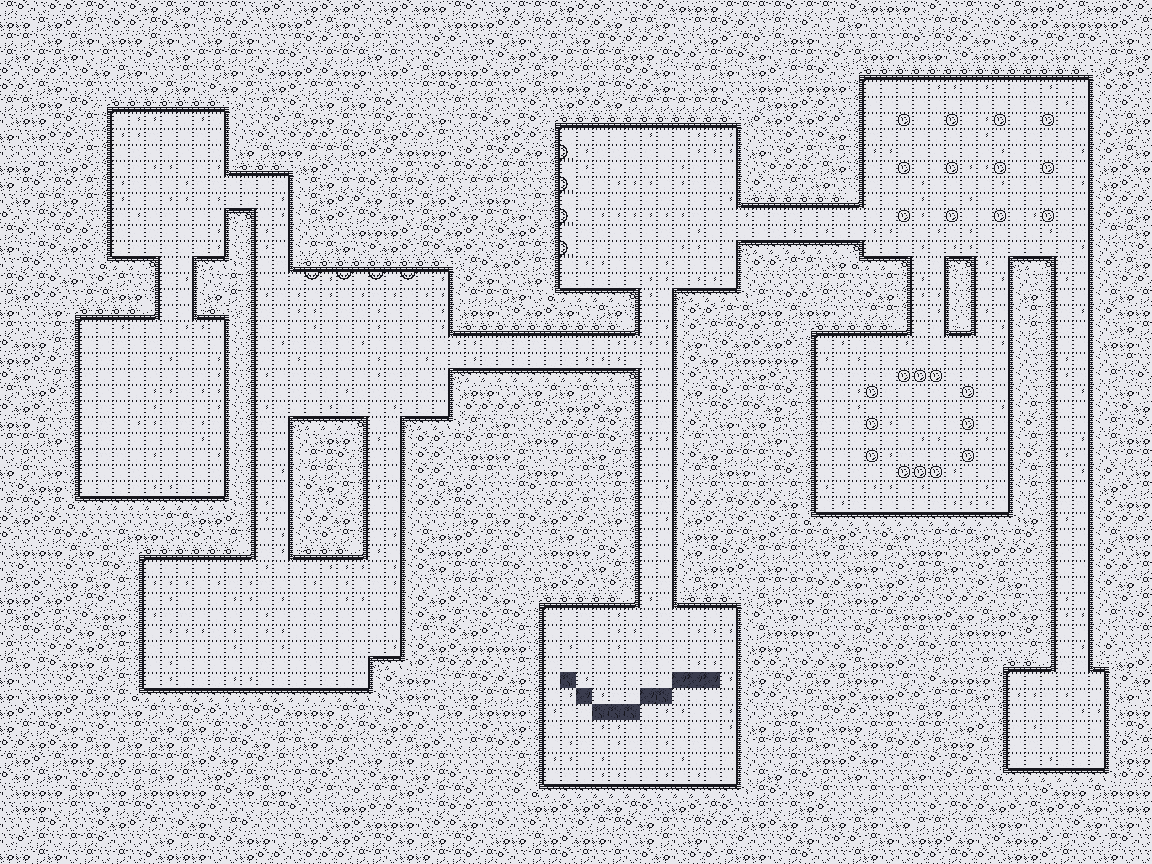
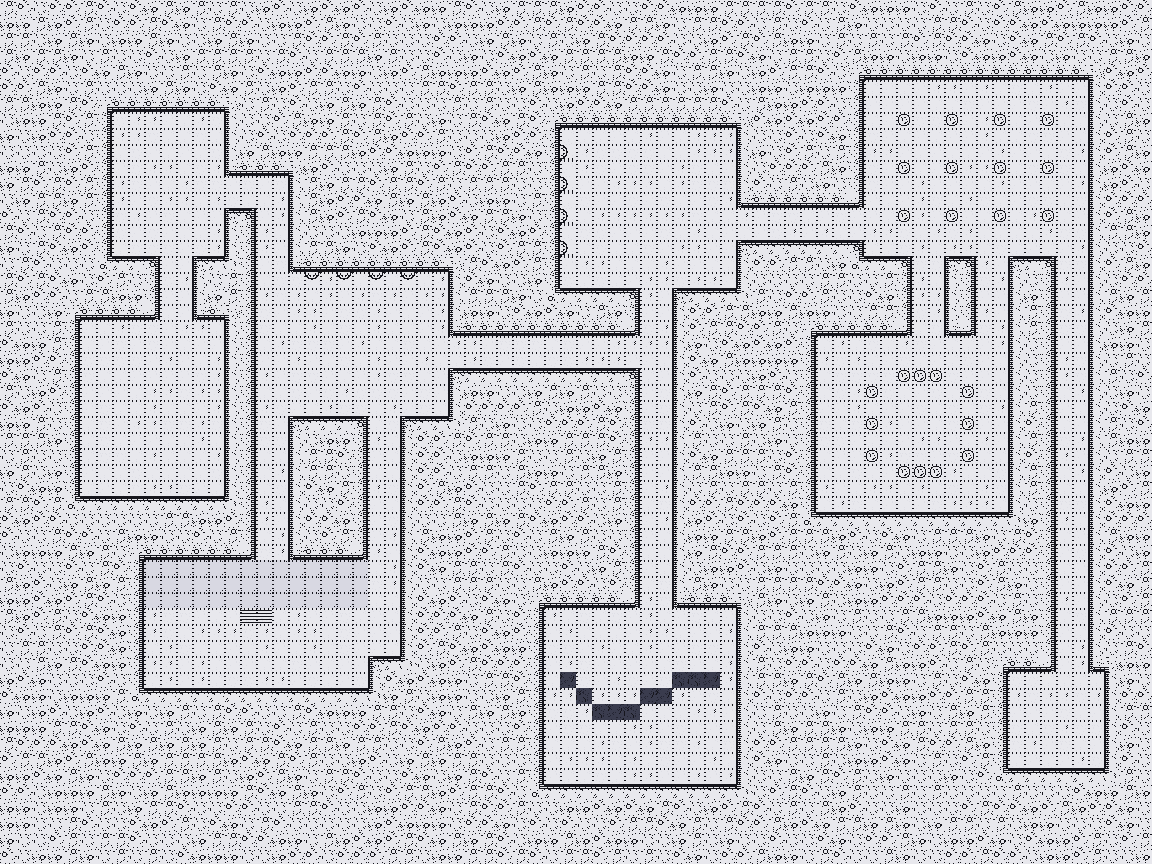
Tile map: two heights (upper platforms) and stairs, layered walk check and package floors

diff --git a/levelArchitect_v2.py b/levelArchitect_v2.py
@@ -16791,8 +16791,8 @@ def plan_from_floorplan_picture(path, plan_id="house", mpp=None, width=12.0, ext
 # the exact pixel look of the tiles. `tilemap_analyze` reads (numpy only), `_build_tilemap` builds the one mesh with walls where heights differ.
 # ==============================================================================
 PLAN_TILEMAP_DEFAULTS = dict(image=None, tile=16, tile_m=1.0, canopy=0.7, stone=3.0, water=-0.35, green=0.375, rough=22.0, roles=None, tileset=None, smooth=True,
-                             trees=True, tree_spacing=2.3, props=True, prop_height=1.7, prop_max=6)
-TILEMAP_ROLES = ("floor", "canopy", "stone", "water", "prop")
+                             trees=True, tree_spacing=2.3, props=True, prop_height=1.7, prop_max=6, upper=1.2, stair_steps=4)
+TILEMAP_ROLES = ("floor", "canopy", "stone", "water", "prop", "upper", "stairs")
 
 
 def _tilemap_tileset(spec, tile):
@@ -16858,10 +16858,11 @@ def _tilemap_side(spec, tile):
 
 
 def tilemap_analyze(rgb, tile=16, green=0.375, rough=22.0, roles=None, lut=None):
-    """Roles of the tiles of a map picture: an int array (rows top to bottom, tile columns), 0 floor, 1 canopy, 2 stone, 3 water, 4 prop (an object standing on the floor; see `_tilemap_props`).
+    """Roles of the tiles of a map picture: an int array (rows top to bottom, tile columns), 0 floor, 1 canopy, 2 stone, 3 water, 4 prop (an object standing on the floor; see `_tilemap_props`), 5 upper (a raised platform), 6 stairs (steps up
+    to the upper tile they touch).
     With a tileset (`lut`: tile pixels -> role) every tile that matches a tileset tile exactly takes that tile's role; the others (and every tile
     without a tileset) are read from colour and texture: canopy when the green share of the colour is above `green`, stone when it is not green but
-    rough (mean standard deviation of the pixels above `rough`), floor otherwise. `roles` = {"x,y": 0..4} overrides single tiles (tile column x, row y from the top)."""
+    rough (mean standard deviation of the pixels above `rough`), floor otherwise. `roles` = {"x,y": 0..6} overrides single tiles (tile column x, row y from the top)."""
     import numpy as np
     rgb = np.asarray(rgb, dtype=float)
     h, w = rgb.shape[:2]
@@ -16883,7 +16884,7 @@ def tilemap_analyze(rgb, tile=16, green=0.375, rough=22.0, roles=None, lut=None)
                     out[y, x] = code
     for key, role in (roles or {}).items():
         x, y = (int(v) for v in str(key).split(","))
-        if 0 <= x < tx and 0 <= y < ty and role in (0, 1, 2, 3, 4):
+        if 0 <= x < tx and 0 <= y < ty and role in (0, 1, 2, 3, 4, 5, 6):
             out[y, x] = role
     return out
 
@@ -16966,20 +16967,41 @@ def _tilemap_depth(roles):
 
 
 def tilemap_walk_check(roles, start=None):
-    """Proves the floor can be walked: the floor tiles (role 0; canopy, stone, water and props block) are flooded from `start` ([x, y] tile) or, without
-    one, from the biggest floor region. Returns {regions, reached (share of all floor tiles in the start region), start, pockets: sizes of the other regions}."""
+    """Proves the level can be walked: floor (0), stairs (6) and upper platforms (5) are walkable, canopy, stone, water and props block. Floor and upper tiles
+    touch without a way across (a step up), only a stairs tile joins them. The walkable tiles are flooded from `start` ([x, y] tile) or, without one, from
+    the biggest region. Returns {regions, reached (share of all walkable tiles in the start region), start (a floor tile of it), pockets: sizes of the others}."""
     import numpy as np
     roles = np.asarray(roles)
-    labels, n = _fp_label(roles == 0, diag=False)
-    if n == 0:
+    ty, tx = roles.shape
+    walk = (roles == 0) | (roles == 5) | (roles == 6)
+    label = np.zeros((ty, tx), dtype=int)
+    sizes = []
+    for y0 in range(ty):
+        for x0 in range(tx):
+            if walk[y0, x0] and not label[y0, x0]:
+                n = len(sizes) + 1
+                label[y0, x0] = n
+                stack, count = [(y0, x0)], 0
+                while stack:
+                    y, x = stack.pop()
+                    count += 1
+                    for dy, dx in ((1, 0), (-1, 0), (0, 1), (0, -1)):
+                        yy, xx = y + dy, x + dx
+                        if 0 <= yy < ty and 0 <= xx < tx and walk[yy, xx] and not label[yy, xx] and {int(roles[y, x]), int(roles[yy, xx])} != {0, 5}:
+                            label[yy, xx] = n
+                            stack.append((yy, xx))
+                sizes.append(count)
+    if not sizes:
         return {"regions": 0, "reached": 0.0, "start": None, "pockets": []}
-    sizes = np.bincount(labels.ravel())[1:]
-    if start is not None and 0 <= start[1] < roles.shape[0] and 0 <= start[0] < roles.shape[1] and labels[start[1], start[0]] > 0:
-        main = int(labels[start[1], start[0]])
+    sizes_a = np.array(sizes)
+    if start is not None and 0 <= start[1] < ty and 0 <= start[0] < tx and label[start[1], start[0]] > 0:
+        main = int(label[start[1], start[0]])
     else:
-        main = int(sizes.argmax()) + 1
-    ys, xs = np.nonzero(labels == main)
-    return {"regions": int(n), "reached": float(sizes[main - 1]) / float(sizes.sum()), "start": [int(xs[0]), int(ys[0])],
+        main = int(sizes_a.argmax()) + 1
+    ys, xs = np.nonzero((label == main) & (roles != 5))
+    if len(ys) == 0:
+        ys, xs = np.nonzero(label == main)
+    return {"regions": len(sizes), "reached": float(sizes_a[main - 1]) / float(sizes_a.sum()), "start": [int(xs[0]), int(ys[0])],
             "pockets": sorted((int(v) for i, v in enumerate(sizes, 1) if i != main), reverse=True)}
 
 
@@ -17072,7 +17094,45 @@ def _build_tilemap(p):
             uv = [(u0, v0), (u1, v0), (u1, v1), (u0, v1)]
             stone = roles[j, i] == 2
             c = (corner[j + 1, i], corner[j + 1, i + 1], corner[j, i + 1], corner[j, i])      # sw, se, ne, nw
-            quad([(x0, y0, c[0]), (x1, y0, c[1]), (x1, y1, c[2]), (x0, y1, c[3])], uv, not stone)
+            role_ij = int(roles[j, i])
+            if role_ij == 5:                                                   # an upper platform: a flat top at `upper` height with cliffs down to lower neighbours
+                H = float(p["upper"])
+                quad([(x0, y0, H), (x1, y0, H), (x1, y1, H), (x0, y1, H)], uv, False)
+                for (di, dj), edge in (((1, 0), "e"), ((-1, 0), "w"), ((0, -1), "n"), ((0, 1), "s")):
+                    ni, nj = i + di, j + dj
+                    if 0 <= ni < tx and 0 <= nj < ty and int(roles[nj, ni]) in (2, 5, 6):
+                        continue
+                    zl = float(tz[nj, ni]) if 0 <= ni < tx and 0 <= nj < ty else -0.5
+                    pts = {"e": [(x1, y0, zl), (x1, y1, zl), (x1, y1, H), (x1, y0, H)], "w": [(x0, y1, zl), (x0, y0, zl), (x0, y0, H), (x0, y1, H)],
+                           "n": [(x1, y1, zl), (x0, y1, zl), (x0, y1, H), (x1, y1, H)], "s": [(x0, y0, zl), (x1, y0, zl), (x1, y0, H), (x0, y0, H)]}[edge]
+                    quad(pts, side_uv if atlas is not None else uv, False)
+                continue
+            quad([(x0, y0, c[0]), (x1, y0, c[1]), (x1, y1, c[2]), (x0, y1, c[3])], uv, False if role_ij == 6 else not stone)
+            if role_ij == 6:                                                   # stairs: steps rising towards the neighbouring upper tile (flat floor when there is none)
+                H, n_st = float(p["upper"]), max(1, int(p["stair_steps"]))
+                up = next((d for d, (di, dj) in {"n": (0, -1), "e": (1, 0), "s": (0, 1), "w": (-1, 0)}.items()
+                           if 0 <= i + di < tx and 0 <= j + dj < ty and int(roles[j + dj, i + di]) == 5), None)
+                if up is not None:
+                    wd, dp = x1 - x0, y1 - y0
+
+                    def sp(t_, s_, z_):                                       # t_: 0 at the low edge .. 1 at the high edge, s_: across the stairs
+                        return {"n": (x0 + s_ * wd, y0 + t_ * dp, z_), "s": (x0 + s_ * wd, y1 - t_ * dp, z_),
+                                "e": (x0 + t_ * wd, y0 + s_ * dp, z_), "w": (x1 - t_ * wd, y0 + s_ * dp, z_)}[up]
+
+                    def oriented(pts, want):                                  # flips a quad whose normal points away from `want`
+                        ax_, ay_, az_ = (pts[1][k_] - pts[0][k_] for k_ in range(3))
+                        bx_, by_, bz_ = (pts[2][k_] - pts[0][k_] for k_ in range(3))
+                        nrm = (ay_ * bz_ - az_ * by_, az_ * bx_ - ax_ * bz_, ax_ * by_ - ay_ * bx_)
+                        return pts if nrm[0] * want[0] + nrm[1] * want[1] + nrm[2] * want[2] >= 0 else pts[::-1]
+                    low_dir = {"n": (0.0, -1.0, 0.0), "s": (0.0, 1.0, 0.0), "e": (-1.0, 0.0, 0.0), "w": (1.0, 0.0, 0.0)}[up]
+                    for k_ in range(n_st):
+                        t0_, t1_ = k_ / n_st, (k_ + 1) / n_st
+                        zk, zk1 = H * k_ / n_st, H * (k_ + 1) / n_st
+                        quad(oriented([sp(t0_, 0, zk1), sp(t1_, 0, zk1), sp(t1_, 1, zk1), sp(t0_, 1, zk1)], (0.0, 0.0, 1.0)), uv, False)
+                        quad(oriented([sp(t0_, 0, zk), sp(t0_, 1, zk), sp(t0_, 1, zk1), sp(t0_, 0, zk1)], low_dir), uv, False)
+                        for s_ in (0, 1):                                   # the sides of the step, hidden when it stands against a wall
+                            quad(oriented([sp(t0_, s_, 0.0), sp(t1_, s_, 0.0), sp(t1_, s_, zk1), sp(t0_, s_, zk1)], ((-1.0, 0.0, 0.0) if s_ == 0 else (1.0, 0.0, 0.0)) if up in ("n", "s") else ((0.0, -1.0, 0.0) if s_ == 0 else (0.0, 1.0, 0.0))), uv, False)
+                continue
             if not stone:
                 continue
             z0 = min(c)
@@ -17120,7 +17180,7 @@ def _build_tilemap(p):
                     trees.append([fx * tm - ox, oy - fy * tm, float(tz[cj, ci])])
     layout = {"name": "tilemap", "tile_m": tm, "tiles": [tx, ty], "floor_share": floor / float(tx * ty), "size": [tx * tm, ty * tm],
               "roles": roles.tolist(), "props": props, "trees": trees, "walk": tilemap_walk_check(roles),
-              "uvdims": [iw, ih], "atlas": atlas}
+              "uvdims": [iw, ih], "atlas": atlas, "upper": float(p["upper"])}
     return (verts, faces, uvs, smooth), roles, layout
 
 
@@ -17190,7 +17250,7 @@ def _plan_build_tilemap(context, node, world, seed, path):
     context.scene.collection.objects.link(obj)
     obj["gla_walk_layout"] = json.dumps({k: v for k, v in layout.items() if k not in ("roles", "trees", "props")})
     obj["gla_tilemap"] = json.dumps({"id": node["id"], "tile_m": layout["tile_m"], "tiles": layout["tiles"], "rows": ["".join(str(v) for v in row) for row in layout["roles"]],
-                                     "props": layout["props"], "trees": [[round(v, 3) for v in t_] for t_ in layout["trees"]], "walk": layout["walk"]})
+                                     "props": layout["props"], "trees": [[round(v, 3) for v in t_] for t_ in layout["trees"]], "walk": layout["walk"], "upper": layout["upper"]})
     made = [obj]
     tm, (tx, ty) = layout["tile_m"], layout["tiles"]
     iw, ih = layout["uvdims"]
@@ -19119,7 +19179,8 @@ class OBJECT_OT_PlanImportHouse(bpy.types.Operator, ImportHelper):
 
 
 def _tilemap_far_tile(rows, start):
-    """The floor tile farthest from `start` by walking (4-neighbour breadth first search over floor tiles); None without a start."""
+    """The floor tile farthest from `start` by walking (4-neighbour breadth first search over floor, stairs and upper tiles; floor and upper touch only through
+    stairs); None without a start."""
     if start is None:
         return None
     ty, tx = len(rows), len(rows[0])
@@ -19130,10 +19191,11 @@ def _tilemap_far_tile(rows, start):
         x, y = queue.popleft()
         for dx, dy in ((1, 0), (-1, 0), (0, 1), (0, -1)):
             nx_, ny_ = x + dx, y + dy
-            if 0 <= nx_ < tx and 0 <= ny_ < ty and rows[ny_][nx_] == "0" and (nx_, ny_) not in seen:
+            if 0 <= nx_ < tx and 0 <= ny_ < ty and rows[ny_][nx_] in "056" and (nx_, ny_) not in seen and {rows[y][x], rows[ny_][nx_]} != {"0", "5"}:
                 seen[(nx_, ny_)] = seen[(x, y)] + 1
                 queue.append((nx_, ny_))
-                far = (nx_, ny_)
+                if rows[ny_][nx_] != "5":
+                    far = (nx_, ny_)
     return list(far)
 
 
@@ -19144,10 +19206,23 @@ def tilemap_game_package(data, glb_name=""):
     tm, (tx, ty) = float(data["tile_m"]), data["tiles"]
     rows = data["rows"]
     ox, oy = tx * tm / 2.0, ty * tm / 2.0
-    cells = {(i, j) for j, row in enumerate(rows) for i, ch in enumerate(row) if ch == "0"}
-    rects = []
-    for x0, y0, x1, y1 in _merge_cells_to_rects(cells):           # tile columns/rows, inclusive, rows counted from the top (north)
-        rects.append([round(x0 * tm - ox, 4), round(-(oy - y0 * tm), 4), round((x1 + 1) * tm - ox, 4), round(-(oy - (y1 + 1) * tm), 4)])
+    cells = {(i, j) for j, row in enumerate(rows) for i, ch in enumerate(row) if ch in "06"}
+    upper_cells = {(i, j) for j, row in enumerate(rows) for i, ch in enumerate(row) if ch == "5"}
+    to_rects = lambda cs: [[round(x0 * tm - ox, 4), round(-(oy - y0 * tm), 4), round((x1 + 1) * tm - ox, 4), round(-(oy - (y1 + 1) * tm), 4)]
+                           for x0, y0, x1, y1 in (_merge_cells_to_rects(cs) if cs else [])]       # tile columns/rows, inclusive, rows counted from the top (north)
+    rects = to_rects(cells)
+    H = float(data.get("upper", 0.0))
+    floors = [{"z": 0, "y": 0.0, "cells": len(cells), "walk_rects": rects}]
+    stairs = []
+    if upper_cells:
+        floors.append({"z": 1, "y": round(H, 4), "cells": len(upper_cells), "walk_rects": to_rects(upper_cells)})
+        for j, row in enumerate(rows):
+            for i, ch in enumerate(row):
+                if ch == "6":
+                    d = next((k_ for k_, (di, dj) in {"north": (0, -1), "east": (1, 0), "south": (0, 1), "west": (-1, 0)}.items()
+                              if 0 <= j + dj < len(rows) and 0 <= i + di < len(row) and rows[j + dj][i + di] == "5"), None)
+                    if d:
+                        stairs.append({"from": 0, "to": 1, "pos": [round((i + 0.5) * tm - ox, 4), round(H / 2.0, 4), round(-(oy - (j + 0.5) * tm), 4)], "up": d, "rise": round(H, 4)})
     centre = lambda t_: [round((t_[0] + 0.5) * tm - ox, 4), 0.0, round(-(oy - (t_[1] + 0.5) * tm), 4)] if t_ else None
     start = data["walk"].get("start")
     far = _tilemap_far_tile(rows, start)
@@ -19160,10 +19235,10 @@ def tilemap_game_package(data, glb_name=""):
         "tile_size": tm,
         "interior": False,
         "coordinates": "engine: x right, y up, z = -blender_y",
-        "floors": [{"z": 0, "y": 0.0, "cells": len(cells), "walk_rects": rects}],
+        "floors": floors,
         "entrance": {"floor": 0, "pos": centre(start)},
         "exit": {"floor": 0, "pos": centre(far)},
-        "stairs": [], "rooms": [], "lights": [],
+        "stairs": stairs, "rooms": [], "lights": [],
         "props": props,
         "trees": [[t_[0], t_[2], -t_[1]] for t_ in data["trees"]],
         "walk": data["walk"],

diff --git a/tests/blender_headless_test.py b/tests/blender_headless_test.py
@@ -5800,6 +5800,26 @@ check("Tile map: a prop tile named apse in prop_kinds is an apse facing away fro
 addon.plan_build(bpy.context, addon.plan_node("tm_apse", "building", "tilemap", params=_apq))
 _apo = [o for o in bpy.data.objects if o.type == "MESH" and o.get("gla_prop") and json.loads(o["gla_prop"])["kind"] == "apse" and o.get("gla_tilemap_id") == "tm_apse"]
 check("Tile map: the apse is its own half-cylinder object with a stone shaft and a picture cap", len(_apo) == 1 and len(_apo[0].data.polygons) == 11 and len(_apo[0].data.materials) == 2, str([len(o.data.polygons) for o in _apo]))
+# two heights and stairs: an upper platform joins the floor only through a stairs tile
+_np_ = _np2
+_rl2 = _np_.zeros((5, 7), dtype=_np_.uint8); _rl2[0:2, :] = 5                   # an upper platform on the two top rows
+check("Tile map: an upper platform touching the floor is a separate region without stairs", addon.tilemap_walk_check(_rl2)["regions"] == 2, str(addon.tilemap_walk_check(_rl2)))
+_rl2[2, 3] = 6                                                                  # one stairs tile between them
+_wk2 = addon.tilemap_walk_check(_rl2)
+check("Tile map: a stairs tile joins the platform and the floor into one region", _wk2["regions"] == 1 and _wk2["reached"] == 1.0, str(_wk2))
+_flat = _np_.zeros((80, 112, 3)); _flat[:] = (200, 200, 205)
+_fl_im = bpy.data.images.new("gla_flat_test.png", 112, 80); _fl_px = _np_.ones((80, 112, 4)); _fl_px[..., :3] = _flat[::-1] / 255.0
+_fl_im.pixels.foreach_set(_fl_px.ravel().astype(_np_.float32)); _fl_path = os.path.join(bpy.app.tempdir, "gla_flat_test.png")
+_fl_im.filepath_raw = _fl_path; _fl_im.file_format = 'PNG'; _fl_im.save()
+_st_roles = {"%d,%d" % (x, y): 5 for y in (0, 1) for x in range(7)}; _st_roles["3,2"] = 6
+_st_node = addon.plan_node("tm_stairs", "building", "tilemap", params={"image": _fl_path, "tile": 16, "tile_m": 1.0, "roles": _st_roles, "upper": 1.2, "stair_steps": 4})
+addon.plan_build(bpy.context, _st_node)
+_st_o = [o for o in bpy.data.objects if o.type == "MESH" and o.data.name.startswith("Tilemap_tm_stairs")]
+_sz = sorted({round(v.co.z, 3) for v in _st_o[0].data.vertices})
+check("Tile map: the platform stands at the upper height and the stairs rise in four steps", abs(max(_sz) - 1.2) < 1e-3 and all(abs(z_ - e_) < 1e-3 for z_, e_ in zip([0.3, 0.6, 0.9], [z for z in _sz if 0.2 < z < 1.1])), str(_sz))
+_stpk = addon.tilemap_game_package(json.loads(_st_o[0]["gla_tilemap"]), "x.glb")
+check("Tile map: the package has a second floor at the upper height and a stairs entry that goes up north", len(_stpk["floors"]) == 2 and abs(_stpk["floors"][1]["y"] - 1.2) < 1e-6
+      and len(_stpk["stairs"]) == 1 and _stpk["stairs"][0]["up"] == "north", str((_stpk["floors"], _stpk["stairs"])))
 # the game package of a tile-map level: floor tiles as exact walk rectangles, entrance and exit on the floor, props and trees listed
 _pk_root = addon.plan_from_tilemap_picture(_tm_path, "tm_pkg", 16, 1.0)
 addon.plan_build(bpy.context, _pk_root)

diff --git a/tools/make_ink_tileset.py b/tools/make_ink_tileset.py
@@ -143,6 +143,25 @@ def apse_tile(side, seed=0):
     return np.rot90(img, k={"n": 0, "e": 3, "s": 2, "w": 1}[side]).copy()
 
 
+def upper_tile(seed):
+    """A raised platform floor: slightly darker paper with a heavier dotted grid and ticks at the corners."""
+    img = floor_tile(seed + 50)
+    img[img.sum(axis=2) > 650] = (0xd8, 0xd8, 0xe2)
+    img[1, 1] = img[1, T - 2] = img[T - 2, 1] = img[T - 2, T - 2] = INK
+    return img
+
+
+def stairs_tile(vertical, seed=0):
+    """Steps seen from above: parallel ink lines across the way up (`vertical` False: horizontal lines, the way up is north-south)."""
+    img = floor_tile(seed + 70)
+    for k in range(2, T, 3):
+        if vertical:
+            img[:, k] = INK
+        else:
+            img[k, :] = INK
+    return img
+
+
 def chasm_tile(seed):
     img = np.empty((T, T, 3), np.uint8)
     img[:] = (0x3a, 0x3c, 0x4e)
@@ -172,6 +191,10 @@ for _d in range(4):
 TILES.append(("pillar", pillar_tile(1), "prop"))
 for i in range(2):
     TILES.append(("chasm", chasm_tile(i), "water"))
+for i in range(2):
+    TILES.append(("upper", upper_tile(i), "upper"))
+TILES.append(("stairs_ns", stairs_tile(False), "stairs"))
+TILES.append(("stairs_ew", stairs_tile(True), "stairs"))
 PROP_KINDS = {}
 for _side in ("n", "e", "s", "w"):
     PROP_KINDS[len(TILES)] = "apse"
@@ -230,7 +253,7 @@ def make_dungeon(w=72, h=54, seed=4):
         yy = (y0 + y1) // 2
         for x in range(x0 + 1, x1 - 1):
             k[yy + int(round(np.sin(x * 0.7))), x] = "chasm"
-    free = [b for b in rooms if b not in (big[0], big[1] if len(big) > 1 else None, big[2] if len(big) > 2 else None)]      # apses: half columns along a wall of two other rooms
+    free = [b for b in rooms if b not in big[:4]]      # apses: half columns along a wall of two other rooms
     for n_, (x0, y0, x1, y1) in enumerate(free[:2]):
         if n_ == 0:
             for x in range(x0 + 1, x1 - 1, 2):
@@ -240,6 +263,11 @@ def make_dungeon(w=72, h=54, seed=4):
             for y in range(y0 + 1, y1 - 1, 2):
                 if k[y, x0] == "floor":
                     k[y, x0] = "apse_w"
+    if len(big) > 3:                                              # a raised platform at the far end of another room, reached by a short flight of stairs
+        x0, y0, x1, y1 = big[3]
+        k[y0:y0 + 3, x0:x1] = "upper"
+        mid = (x0 + x1) // 2
+        k[y0 + 3, mid - 1:mid + 1] = "stairs_ns"
     rock = k == "rock"                                            # the rock tiles next to floor (4-neighbour) become wall
     near = np.zeros_like(rock)
     solid = ~rock

diff --git a/CHANGELOG.md b/CHANGELOG.md
@@ -5,7 +5,7 @@ reproduced exactly from its settings (see **Debug: Last Generation Params** in t
 
 ## Unreleased — terrain: look, relief, water and ground cover; tile maps
 
-- **Level from a tile map** (`tilemap` building, **Level from Tile Map...** button): a picture of a whole level made of square tiles (as in 16-bit action games) becomes a 3D level. Every tile gets a role from its colour and texture — floor, canopy (green mass) or stone (grey, rough) — `tilemap_analyze`, numpy only; single tiles can be overridden with `roles: {"x,y": 0|1|2}`. Floor stays flat, canopy and stone are raised (`canopy`, `stone` heights), walls are built where heights differ, and the picture itself is the texture with nearest filtering, so the pixel look is kept. `tile` (px) and `tile_m` (metres per tile) set the scale. **Tilesets and a modern look**: a `tileset` (sheet + roles JSON) matches map tiles exactly and adds a fourth role, **water**; the ground is one smooth surface (canopy swells into rounded mounds, banks slope into water), stone tiles are walls in tile-high bands with a bevelled top (`smooth: false` for plain blocks). `tools/make_tileset.py` draws an original 16-px tileset and a demo map. **Objects, trees, walk check**: a small clump of stone tiles standing alone on the floor (≤ `prop_max` tiles, ≤ 3 x 3) is a **prop** (role 4, `statue`), a small canopy clump is a `bush`; each prop is its own object (a short box carrying its sprite, `gla_prop` = {kind, rect}) with a floor tile showing under it, ready to be swapped for a model. **Canopy becomes real 3D trees** (`trees`, `tree_spacing`): round and cone trees on a jittered lattice well inside the forest, the canopy ground only a low mound (`canopy` 0.7). `tilemap_walk_check(roles)` floods the floor (canopy, stone, water and props block) from a start tile or the biggest region and reports regions, the reached share and the pockets. Tileset sheets may have a border and lines between tiles (`margin`, `gutter`). **Apses**: a tileset lists tiles under `prop_kinds` (`{index: "apse"}`); such a prop tile becomes a half column built into the wall it stands against (`facing` = the wall side found from the stone neighbours): a semicircular stone shaft up to wall height whose flat top shows the tile's own picture; the ink tileset has four (wall north, east, south, west) and the dungeon generator lines two rooms with them. **Wall tiles with a partial brick top** (ink tileset): 15 side-mask variants (bricks only along the sides that face open ground, N=1 E=2 S=4 W=8) plus 4 corner variants, the rest stipple rock, like the walls of a hand-inked plan; a tileset can name a `wall_side` tile that the wall faces show instead of the map's own tile (the map and the sheet then become one atlas picture, `LA_TilemapAtlas_<id>`); `walltiles.first` in the json tells generators where the variants start. The re-skin simplifies the old layouts (1-tile spurs and dead-end nubs removed) before choosing tiles. **Re-skin into the ink style** (`tools/reskin_map.py` with `ink_tileset`): forest and stone become solid rock, rock beside open ground brick wall, water a chasm, small loose bits of the old map (statues, bushes) pillars and tiny floor pockets wall; several old sheets can be given comma separated. **Ink dungeon from scratch** (`tools/make_ink_tileset.py`): an original ink-on-paper tileset (paper floors with a dotted grid, outlined brick walls, stippled rock, pillars, chasm) and a generator that carves rooms and corridors from rock, fills a hall with pillars, rings another with pillars and cuts a chasm. Tiles a tileset marks `prop` become props: a single one is a **pillar** (a cylinder with a plain stone shaft and the tile's picture as its cap), several together an object. **Autotiles**: the demo tileset (`tools/make_tileset.py`) now carries 3 x 16 autotile variants (dirt over grass, water over sand, canopy over grass; the variant follows which of the four neighbours are the same kind, bits N=1 E=2 S=4 W=8) with rounded wobbly edges, foam and shadow rims, so coasts, forest edges and paths join up; `tileset_demo.json` lists them under `autotiles`. **Fix**: round tree crowns had zero-width pole quads that the glTF export dropped (hollow crowns in Godot); they now stop short of the poles and end in flat caps. **Re-skin** (`tools/reskin_map.py`): every tile of a map is looked up in its old tileset, takes its role and is replaced by a same-role tile of a new tileset, so one layout can wear any art; choose the new tiles per role (`floor=dirt,grass stone=brick`). **Godot demo** (`examples/godot_tilemap_demo`, `tools/export_demo_package.py`): a small Godot 4 project loads a tile-map package and lets you walk it with WASD; headless `--selftest` checks entrance, exit, props and trees against the walk rectangles. **Game package**: **Export Tile Map Package (glb + json)** writes the level (ground, props, trees) as glTF plus a `gla-export/1` JSON — the floor tiles merged into exact walkable rectangles, the entrance at the start of the biggest floor region, the exit at the tile farthest from it by walking, props (kind, position) and tree positions, and the walk check; `tilemap_game_package(data)` builds it from the `gla_tilemap` custom property the ground object carries. Limits: colour decides the roles without a tileset (green machinery reads as forest), no game export yet. The tool works with any tile map picture; none from a commercial game is shipped.
+- **Level from a tile map** (`tilemap` building, **Level from Tile Map...** button): a picture of a whole level made of square tiles (as in 16-bit action games) becomes a 3D level. Every tile gets a role from its colour and texture — floor, canopy (green mass) or stone (grey, rough) — `tilemap_analyze`, numpy only; single tiles can be overridden with `roles: {"x,y": 0|1|2}`. Floor stays flat, canopy and stone are raised (`canopy`, `stone` heights), walls are built where heights differ, and the picture itself is the texture with nearest filtering, so the pixel look is kept. `tile` (px) and `tile_m` (metres per tile) set the scale. **Tilesets and a modern look**: a `tileset` (sheet + roles JSON) matches map tiles exactly and adds a fourth role, **water**; the ground is one smooth surface (canopy swells into rounded mounds, banks slope into water), stone tiles are walls in tile-high bands with a bevelled top (`smooth: false` for plain blocks). `tools/make_tileset.py` draws an original 16-px tileset and a demo map. **Objects, trees, walk check**: a small clump of stone tiles standing alone on the floor (≤ `prop_max` tiles, ≤ 3 x 3) is a **prop** (role 4, `statue`), a small canopy clump is a `bush`; each prop is its own object (a short box carrying its sprite, `gla_prop` = {kind, rect}) with a floor tile showing under it, ready to be swapped for a model. **Canopy becomes real 3D trees** (`trees`, `tree_spacing`): round and cone trees on a jittered lattice well inside the forest, the canopy ground only a low mound (`canopy` 0.7). `tilemap_walk_check(roles)` floods the floor (canopy, stone, water and props block) from a start tile or the biggest region and reports regions, the reached share and the pockets. Tileset sheets may have a border and lines between tiles (`margin`, `gutter`). **Two heights and stairs**: new roles `upper` (5, a raised platform at `upper` metres, default 1.2, with cliffs down to lower neighbours) and `stairs` (6, `stair_steps` steps rising towards the upper tile it touches, flat floor when there is none). Floor and upper tiles touch without a way across; only a stairs tile joins them, which the walk check and the exit search respect. The game package gets a second floor at the platform's height and a `stairs` entry per stairs tile ({from, to, pos, up, rise}). The ink dungeon generator raises a platform at the end of one room, reached by a flight of stairs. **Apses**: a tileset lists tiles under `prop_kinds` (`{index: "apse"}`); such a prop tile becomes a half column built into the wall it stands against (`facing` = the wall side found from the stone neighbours): a semicircular stone shaft up to wall height whose flat top shows the tile's own picture; the ink tileset has four (wall north, east, south, west) and the dungeon generator lines two rooms with them. **Wall tiles with a partial brick top** (ink tileset): 15 side-mask variants (bricks only along the sides that face open ground, N=1 E=2 S=4 W=8) plus 4 corner variants, the rest stipple rock, like the walls of a hand-inked plan; a tileset can name a `wall_side` tile that the wall faces show instead of the map's own tile (the map and the sheet then become one atlas picture, `LA_TilemapAtlas_<id>`); `walltiles.first` in the json tells generators where the variants start. The re-skin simplifies the old layouts (1-tile spurs and dead-end nubs removed) before choosing tiles. **Re-skin into the ink style** (`tools/reskin_map.py` with `ink_tileset`): forest and stone become solid rock, rock beside open ground brick wall, water a chasm, small loose bits of the old map (statues, bushes) pillars and tiny floor pockets wall; several old sheets can be given comma separated. **Ink dungeon from scratch** (`tools/make_ink_tileset.py`): an original ink-on-paper tileset (paper floors with a dotted grid, outlined brick walls, stippled rock, pillars, chasm) and a generator that carves rooms and corridors from rock, fills a hall with pillars, rings another with pillars and cuts a chasm. Tiles a tileset marks `prop` become props: a single one is a **pillar** (a cylinder with a plain stone shaft and the tile's picture as its cap), several together an object. **Autotiles**: the demo tileset (`tools/make_tileset.py`) now carries 3 x 16 autotile variants (dirt over grass, water over sand, canopy over grass; the variant follows which of the four neighbours are the same kind, bits N=1 E=2 S=4 W=8) with rounded wobbly edges, foam and shadow rims, so coasts, forest edges and paths join up; `tileset_demo.json` lists them under `autotiles`. **Fix**: round tree crowns had zero-width pole quads that the glTF export dropped (hollow crowns in Godot); they now stop short of the poles and end in flat caps. **Re-skin** (`tools/reskin_map.py`): every tile of a map is looked up in its old tileset, takes its role and is replaced by a same-role tile of a new tileset, so one layout can wear any art; choose the new tiles per role (`floor=dirt,grass stone=brick`). **Godot demo** (`examples/godot_tilemap_demo`, `tools/export_demo_package.py`): a small Godot 4 project loads a tile-map package and lets you walk it with WASD; headless `--selftest` checks entrance, exit, props and trees against the walk rectangles. **Game package**: **Export Tile Map Package (glb + json)** writes the level (ground, props, trees) as glTF plus a `gla-export/1` JSON — the floor tiles merged into exact walkable rectangles, the entrance at the start of the biggest floor region, the exit at the tile farthest from it by walking, props (kind, position) and tree positions, and the walk check; `tilemap_game_package(data)` builds it from the `gla_tilemap` custom property the ground object carries. Limits: colour decides the roles without a tileset (green machinery reads as forest), no game export yet. The tool works with any tile map picture; none from a commercial game is shipped.
 - **Rapids**: a river's bed steepness (0-9) rides in the whole part of the ribbon's u; the river shader turns steep stretches into white water across the whole width.
 - **Ground cover**: scatter kinds `grass` (tufts of blades, up to 900/ha) and `flower` (five colours) in meadow, forest, tundra, mountain and island biomes (capped at 6000 per kind); rules may carry `wet` (0-1) so trees prefer low, damp ground near water.
 - **Water**: lakes are a sheet only over the wet grid cells with a baked `depth` attribute, shaded from turquoise shallows to deep blue with growing opacity, shore foam and ripples (`LA_Lake`); rivers get edge foam and flow streaks from their ribbon UVs (`LA_River`). Shader only.

diff --git a/docs/PLAN_FORMAT.md b/docs/PLAN_FORMAT.md
@@ -58,7 +58,7 @@ Generated buildings add their own anchors (their doors) back into the data, so l
 | building / tower | `radius`, `height`, `wall`, `door`, `door_angle`, `windows`, `interior`, `stair_width`, `rail`, `lights`, `props`, `battlements`, `ruin`, `brick_color` |
 | building / terrace_city | `tiers` (2-7), `peaks` (1-2, two summits joined by a viaduct), `flights` (most flights up to one terrace, 1-3), `irregular` (0-1: cut corners, bays, off-centre terraces), `shapes` (`mixed`, `rect`, `round`, `polygon`), `palace` (`dome` or `castle`), `ruins`, `fountains`, `village` (share of village-generator houses and huts), `waterfalls`, `walls` (crenellated wall with towers and a gate), `width`, `depth` (m; 0 = the smallest that fits the tiers and peaks), `rise` (m per tier, 2-6), `density` (houses, 0-1), `bushes`, `trees`, `interiors` (0-1, furnished rooms), `lights`, `roof_color`; the node's `style` gives the mesh that pack's wall, trim, roof and wood (medieval = grey stone). One mesh with eight materials (wall, trim, roof, wood, leaf, water, cobbled paving that every style keeps for the floors, gold), a hinged `..._Panel_NNN` object per door leaf, a point light per room; the walk layout is stored on the mesh as `gla_walk_layout` |
 | building / floor_plan | `floors` (a list, one dict per storey: `walls` [[x0, y0, x1, y1]], `windows` [[x0, y0, x1, y1, kind]] (`window`/`wide`/`garage`), `doors` [[x0, y0, x1, y1, hinge_x, hinge_y]], `slab`, `entrance` [x, y]; metres, y up, middle of the house at the origin) — made by the **House from Floor-Plan Picture** button or `floorplan_trace(image)`; `heights` (storey heights 2.2-6 m), `stairs` [{`floor`, `x`, `y`, `dir` (`+x`/`-x`/`+y`/`-y`), `width`}], `roof`, `lights`, `glass`. Walls as boxes, window/door openings with sills and lintels, a hinged `..._Panel_NNN` leaf per door, floor and roof slabs; `floor_plan_walk_check(layout)` walks it from the entrance. |
-| building / tilemap | `image` (path of the map picture), `tile` (px, 4-128, default 16), `tile_m` (metres per tile, default 1), `canopy` / `stone` / `water` (heights: canopy mound 2.4, stone wall 3.0, water -0.35), `smooth` (default true: mounds and sloping banks), `trees` (3D trees over canopy, default true) with `tree_spacing` (tiles, 2.3), `props` (default true) with `prop_height` (1.7 tiles) and `prop_max` (6 tiles), role 4 = prop, `tileset` {`image`, `json`} (exact tile match; roles floor / canopy / stone / water), `green` (green share above which a tile is canopy, 0.375), `rough` (texture roughness above which a non-green tile is stone, 22), `roles` {"x,y": 0 floor / 1 canopy / 2 stone / 3 water} to override single tiles — one mesh textured with the picture (nearest filtering), walls where heights differ; made by the **Level from Tile Map** button or `plan_from_tilemap_picture` |
+| building / tilemap | `image` (path of the map picture), `tile` (px, 4-128, default 16), `tile_m` (metres per tile, default 1), `canopy` / `stone` / `water` (heights: canopy mound 2.4, stone wall 3.0, water -0.35), `smooth` (default true: mounds and sloping banks), `trees` (3D trees over canopy, default true) with `tree_spacing` (tiles, 2.3), `props` (default true) with `prop_height` (1.7 tiles) and `prop_max` (6 tiles), role 4 = prop, 5 = upper platform (`upper` height, 1.2) and 6 = stairs (`stair_steps`, 4) that rise towards the upper tile they touch, `tileset` {`image`, `json`} (exact tile match; roles floor / canopy / stone / water), `green` (green share above which a tile is canopy, 0.375), `rough` (texture roughness above which a non-green tile is stone, 22), `roles` {"x,y": 0 floor / 1 canopy / 2 stone / 3 water} to override single tiles — one mesh textured with the picture (nearest filtering), walls where heights differ; made by the **Level from Tile Map** button or `plan_from_tilemap_picture` |
 | building / rock_city | `levels` (2-8), `width` (60-220), `rise` (5.5-8), `depth` (12-30), `density`, `trees`, `interiors`, `lights`, `road`, `curve` (0-1, how much the terrace walls bow), `caves` (0-1), `rock` (`SAND`/`GREY`/`RED`). A city carved into a mountain: ledges, carved facades with rooms behind and door leaves (`..._Panel_NNN`), stairs, a serpentine road, boulders, procedural rock materials; walk layout on the mesh as `gla_walk_layout`. |
 | building / swan_castle | `floors` (3-10), `floor_h` (m), `width` (36-70), `depth` (24-50), `interiors`, `spires`, `shuffle` (hall themes in a seeded order), `roof_pitch` (0.6-1.4), `turret_r` (2-4), `top` (`dome`/`spire`/`lantern`), `lights`, `roof_color`; the node's `style` gives the wall, trim, roof and wood. One mesh with eight materials (wall, trim, roof, wood, leaf, water, paving, gold), a hinged `..._Panel_NNN` object per front-door leaf, point lights; the walk layout is stored on the mesh as `gla_walk_layout`. In `terrace_city`, `params.palace = "castle"` builds it on the first summit |
 | building / mansion | `plan` (`"bearwood"`, `"random"` — a generated plan from `plan_shape` (`bar`/`L`/`U`/`T`/`O`/`random`), `plan_seed`, `floors` (1-3), `wing` (16-70 m), `depth` (7-10 m) — or a dict: `heights`, `rooms` [{name, floor, rect, kind, circ, tall}], `towers`, `entrances`, `extra_doors`, `roofs`), `interiors`, `lights`, `roof_color`; the node's `style` gives the wall, trim, roof and wood. One mesh with eight materials, a hinged `..._Panel_NNN` object per door leaf, point lights; the walk layout is stored on the mesh as `gla_walk_layout`. `mansion_size(params)` is the footprint |

diff --git a/docs/USER_GUIDE.md b/docs/USER_GUIDE.md
@@ -311,7 +311,7 @@ In a plan, `params.roles` = `{"x,y": 0|1|2}` overrides single tiles, and `params
 **For a game**: **Export Tile Map Package (glb + json)** (Plans panel) exports the built level as glTF plus a JSON in the same `gla-export/1` format as the other packages: the floor tiles as exact walkable rectangles, an entrance, an exit (the floor tile farthest from the entrance by walking), the props and the tree positions.
 A fourth role, **water**, sits a little lower and the ground slopes into it; green masses swell into rounded mounds (`params.smooth: false` makes everything flat-topped blocks).
 With a **tileset** (`params.tileset` = `{"image": sheet.png, "json": roles.json}`; the JSON has `tile`, `cols` and a `roles` list, one of floor / canopy / stone / water / prop per tile in sheet order; optional `margin` and `gutter` in px for sheets with a border and lines between the tiles) every map tile that equals a tileset tile pixel for pixel takes that tile's role; others are read from colour and texture.
-`tools/make_tileset.py` draws an original example tileset and map. A tileset JSON may also list **`prop_kinds`** (`{"12": "apse"}`): a prop tile of kind `apse` becomes a half column against the neighbouring wall, bulging into the room. A tileset JSON may name a **`wall_side`** tile: the wall faces then show that tile instead of the map's own one (the map and the sheet are put in one atlas picture), so a wall tile can have a bricks-only-on-the-edge top and still brick faces. `tools/make_ink_tileset.py` draws an ink-on-paper dungeon tileset and generates a dungeon map (rooms, corridors, pillar halls, a chasm); a tile with the role `prop` in a tileset's JSON becomes a prop (a single tile a pillar). `tools/reskin_map.py` re-skins a map: it replaces every tile by a tile of the same role from another tileset, so the same layout can wear different art. The maps and tilesets of commercial games are not included; use pictures you are allowed to use.
+`tools/make_tileset.py` draws an original example tileset and map. **Two heights**: tiles with the role `upper` form raised platforms (default 1.2 m) with cliff faces, `stairs` tiles are flights of steps up to the upper tile they touch; the walk check lets you cross between the levels only over stairs, and the game package has a second floor and a `stairs` list. A tileset JSON may also list **`prop_kinds`** (`{"12": "apse"}`): a prop tile of kind `apse` becomes a half column against the neighbouring wall, bulging into the room. A tileset JSON may name a **`wall_side`** tile: the wall faces then show that tile instead of the map's own one (the map and the sheet are put in one atlas picture), so a wall tile can have a bricks-only-on-the-edge top and still brick faces. `tools/make_ink_tileset.py` draws an ink-on-paper dungeon tileset and generates a dungeon map (rooms, corridors, pillar halls, a chasm); a tile with the role `prop` in a tileset's JSON becomes a prop (a single tile a pillar). `tools/reskin_map.py` re-skins a map: it replaces every tile by a tile of the same role from another tileset, so the same layout can wear different art. The maps and tilesets of commercial games are not included; use pictures you are allowed to use.
 
 ### Walled towns
 
